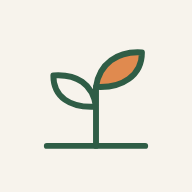
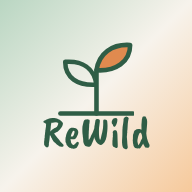
Add files via upload

diff --git a/index.html b/index.html
@@ -2,21 +2,23 @@
 <html lang="en"><head>
 <meta charset="utf-8">
 <meta name="viewport" content="width=device-width,initial-scale=1,viewport-fit=cover">
-<title>Rewild</title>
+<title>ReWild</title>
 <meta name="theme-color" content="#f7f3ec" media="(prefers-color-scheme: light)"><meta name="theme-color" content="#141a16" media="(prefers-color-scheme: dark)">
 <meta name="apple-mobile-web-app-capable" content="yes">
 <meta name="mobile-web-app-capable" content="yes">
-<meta name="apple-mobile-web-app-title" content="Rewild">
+<meta name="apple-mobile-web-app-title" content="ReWild">
 <link rel="manifest" href="manifest.webmanifest">
-<link rel="apple-touch-icon" href="apple-touch-icon.png">
+<link rel="apple-touch-icon" href="apple-touch-icon.png?v=4">
+<link rel="icon" type="image/png" href="icon-192.png?v=4">
 <link rel="icon" href="icon-192.png">
 <link rel="preconnect" href="https://fonts.googleapis.com">
 <link rel="stylesheet" href="https://fonts.googleapis.com/css2?family=Spectral:ital,wght@0,500;0,600;1,500&family=Public+Sans:wght@400;500;600&display=swap">
 <style>
[1 lines of base64/hex data omitted]
 /* Layout: a calm single-column field journal; tabs across the top, the log form first. */
 :root{
   --bg:#f7f3ec; --surface:#fffdf9; --sunk:#efe9df; --fg:#1d2a22; --muted:#66705f; --line:#e2dacb;
-  --accent:#2f5d46; --accent-fg:#ffffff; --peak:#c95a2e; --before:#8a94a6; --after:#2f5d46; --leaf:#e08a4f; --sun:#f3c58f;
+  --accent:#2f5d46; --accent-fg:#ffffff; --peak:#c95a2e; --before:#8a94a6; --after:#2f5d46; --leaf:#e08a4f; --sun:#f3c58f; --ring:#2f5d46;
   --c1:#2f5d46; --c2:#c95a2e; --c3:#5a6fa8; --c4:#b9782f; --c5:#7d4f86;
   --danger:#a33a2a; --chip:#ece4d6;
   --display:"Spectral", Georgia, "Times New Roman", serif;
@@ -25,12 +27,12 @@
 }
 @media (prefers-color-scheme: dark){:root:not([data-theme="light"]){
   --bg:#141a16; --surface:#1b231e; --sunk:#222b25; --fg:#eee9df; --muted:#a7ae9f; --line:#323d35;
-  --accent:#8fc2a5; --accent-fg:#10201a; --peak:#f0936a; --before:#a9b3c4; --after:#8fc2a5; --leaf:#e0864d; --sun:#f3c58f;
+  --accent:#8fc2a5; --accent-fg:#10201a; --peak:#f0936a; --before:#a9b3c4; --after:#8fc2a5; --leaf:#e0864d; --sun:#f3c58f; --ring:#8fc2a5;
   --c1:#8fc2a5; --c2:#f0936a; --c3:#9fb0e3; --c4:#e0b072; --c5:#c9a1d3;
   --danger:#f08c7a; --chip:#2a332c; color-scheme:dark }}
 :root[data-theme="dark"]{
   --bg:#141a16; --surface:#1b231e; --sunk:#222b25; --fg:#eee9df; --muted:#a7ae9f; --line:#323d35;
-  --accent:#8fc2a5; --accent-fg:#10201a; --peak:#f0936a; --before:#a9b3c4; --after:#8fc2a5; --leaf:#e0864d; --sun:#f3c58f;
+  --accent:#8fc2a5; --accent-fg:#10201a; --peak:#f0936a; --before:#a9b3c4; --after:#8fc2a5; --leaf:#e0864d; --sun:#f3c58f; --ring:#8fc2a5;
   --c1:#8fc2a5; --c2:#f0936a; --c3:#9fb0e3; --c4:#e0b072; --c5:#c9a1d3;
   --danger:#f08c7a; --chip:#2a332c; color-scheme:dark }
 *{box-sizing:border-box}
@@ -39,8 +41,8 @@ body{background:var(--bg);color:var(--fg);font-family:var(--body);font-size:15px
 .wrap{max-width:760px;margin:0 auto;display:flex;flex-direction:column;gap:20px}
 header.brand{display:flex;align-items:center;gap:14px}
 .logo{width:56px;height:56px;flex:none}
-header h1{letter-spacing:.01em;font-family:var(--display);font-weight:600;font-size:2rem;line-height:1.15;margin:0;text-wrap:balance}
-header p{margin:4px 0 0;color:var(--muted);font-style:italic;font-family:var(--display);font-size:1.05rem}
+header h1{letter-spacing:.01em;font-family:'ReWild Brush',var(--display);font-weight:400;font-size:2.5rem;line-height:1;color:var(--accent);margin:0;text-wrap:balance}
+header p{margin:4px 0 0;text-wrap:balance;color:var(--muted);font-style:italic;font-family:var(--display);font-size:1.05rem}
 nav{display:flex;gap:4px;flex-wrap:wrap;border-bottom:1px solid var(--line)}
 nav a{color:var(--muted);text-decoration:none;padding:8px 12px;border-bottom:2px solid transparent;font-weight:500}
 nav a[aria-current="page"]{color:var(--fg);border-bottom-color:var(--accent)}
@@ -99,14 +101,26 @@ button:disabled{opacity:.5;cursor:not-allowed}
 .toast{position:fixed;left:50%;transform:translateX(-50%);bottom:calc(16px + env(safe-area-inset-bottom,0px));background:var(--fg);color:var(--bg);padding:10px 16px;border-radius:8px;font-weight:500;z-index:20}
 .confirm{display:flex;gap:8px;align-items:center;flex-wrap:wrap;font-size:.9rem}
 @media (prefers-reduced-motion: no-preference){.panel{transition:border-color .2s}}
-@media (max-width:420px){.suds{grid-template-columns:1fr 1fr;gap:8px} header h1{font-size:1.7rem} header p{font-size:.92rem} .logo{width:46px;height:46px} .breathe-btn{padding:5px 11px;font-size:.85rem}}
+@media (max-width:420px){.suds{grid-template-columns:1fr 1fr;gap:8px} header h1{font-size:2.15rem} header p{font-size:.84rem} header.brand{gap:10px} .logo{width:46px;height:46px} .breathe-btn{padding:5px 11px;font-size:.85rem}}
 
 :root{padding-top:env(safe-area-inset-top,0px);padding-bottom:env(safe-area-inset-bottom,0px)}
 [hidden]{display:none!important}
-.breathe-btn{margin-left:auto;align-self:center;text-decoration:none;font-weight:600;font-size:.9rem;color:var(--accent);border:1.5px solid var(--accent);border-radius:999px;padding:6px 14px;white-space:nowrap}
-.breathe-btn:hover{background:var(--accent);color:var(--accent-fg)}
+.breathe-btn{margin-left:auto;align-self:center;position:relative;display:inline-flex;align-items:center;gap:7px;text-decoration:none;font-weight:700;font-size:.9rem;color:#fff;text-shadow:0 1px 1px rgba(0,0,0,.18);background:linear-gradient(90deg,#5f9a76,#d9773c);border-radius:999px;padding:7px 15px;white-space:nowrap;box-shadow:0 2px 8px rgba(217,119,60,.25)}
+.breathe-btn .bdot{width:10px;height:10px;border-radius:50%;background:#fff;flex:none}
+.breathe-btn::after{content:"";position:absolute;inset:-6px;border-radius:999px;border:3px solid var(--ring);box-shadow:0 0 10px color-mix(in srgb,var(--ring) 50%,transparent);opacity:0;pointer-events:none}
+.breathe-btn:focus-visible{outline:2px solid var(--fg);outline-offset:6px}
+@media (prefers-reduced-motion: no-preference){
+  .breathe-btn::after{animation:bw-glow 10s ease-in-out infinite}
+  .breathe-btn .bdot{animation:bw-dotp 10s ease-in-out infinite}
+}
+/* paced like slow breathing: about 4 seconds in, 6 seconds out */
+@keyframes bw-glow{0%{opacity:0;transform:scale(.94)}40%{opacity:1;transform:scale(1.06)}100%{opacity:0;transform:scale(.94)}}
+@keyframes bw-dotp{0%{transform:scale(.7)}40%{transform:scale(1.15)}100%{transform:scale(.7)}}
 .bw-stage{display:flex;flex-direction:column;align-items:center;gap:14px;padding:12px 0 4px}
-.bw-ring{width:min(240px,64vw);aspect-ratio:1;border-radius:50%;display:grid;place-items:center;position:relative}
+.bw-ring{width:min(240px,64vw);aspect-ratio:1;border-radius:50%;display:grid;place-items:center;position:relative;background:none;border:0;padding:0;cursor:pointer;-webkit-tap-highlight-color:transparent}
+.bw-ring:focus-visible{outline:2px solid var(--accent);outline-offset:4px}
+.bw-num.idle{font-family:var(--body);font-size:1.15rem;font-weight:600;letter-spacing:.06em;text-transform:uppercase}
+.bw-ring:not(.running) .bw-dot{transform:scale(.6)}
 .bw-ring::before{content:"";position:absolute;inset:0;border-radius:50%;border:1.5px dashed var(--line)}
 .bw-dot{grid-area:1/1;width:100%;aspect-ratio:1;border-radius:50%;background-color:var(--bw-c,var(--sun));background-image:radial-gradient(circle at 50% 38%,rgba(255,255,255,.38),rgba(255,255,255,0) 62%);transform:scale(.42);transition:transform 1s ease-in-out,background-color .6s ease}
 .bw-num{grid-area:1/1;z-index:1;font-family:var(--display);font-size:3.4rem;font-weight:600;color:#1d2a22;font-variant-numeric:tabular-nums;line-height:1}
@@ -191,13 +205,13 @@ if("serviceWorker" in navigator)addEventListener("load",()=>navigator.serviceWor
       <path d="M24 23c1-7 6.5-11 14-10.5C38 19.5 32 23.5 24 23z" fill="var(--leaf)" stroke="var(--accent)" stroke-width="1.8" stroke-linejoin="round"/>
     </svg>
     <div>
-      <h1>Rewild</h1>
+      <h1>ReWild</h1>
       <p>Reclaiming a life beyond fear.</p>
     </div>
-    <a href="#breathe" class="breathe-btn" aria-label="Breathe">Breathe</a>
+    <a href="#breathe" class="breathe-btn" aria-label="Breathe"><span class="bdot" aria-hidden="true"></span>Breathe</a>
   </header>
   <nav id="nav">
-    <a href="#log">Log</a><a href="#week">Week</a><a href="#trends">Trends</a><a href="#pyramid">Pyramid</a><a href="#export">Export</a><a href="#breathe">Breathe</a><a href="#safety">Safety</a><a href="#settings">Settings</a>
+    <a href="#safety">Safety</a><a href="#log">Log</a><a href="#breathe">Breathe</a><a href="#week">Week</a><a href="#pyramid">Pyramid</a><a href="#trends">Trends</a><a href="#export">Export</a><a href="#settings">Settings</a>
   </nav>
   <p class="meta" id="sync-chip" style="margin:-8px 0 0"></p>
   <div id="banner" class="banner" hidden></div>
@@ -424,11 +438,10 @@ if("serviceWorker" in navigator)addEventListener("load",()=>navigator.serviceWor
         <label style="flex-direction:row;align-items:center;gap:8px;align-self:end"><input type="checkbox" id="bw-vib" style="width:auto">Buzz on each change</label>
       </div>
       <div class="bw-stage">
-        <div class="bw-ring"><div class="bw-dot" id="bw-dot"></div><span class="bw-num" id="bw-num"></span></div>
+        <button type="button" class="bw-ring" id="bw-start" aria-label="Start breathing"><span class="bw-dot" id="bw-dot"></span><span class="bw-num idle" id="bw-num">Start</span></button>
         <div class="bw-key"><span style="--sw:var(--bw-in)">Breathe in</span><span style="--sw:var(--bw-hold)">Hold</span><span style="--sw:var(--bw-out)">Breathe out</span></div>
-        <p class="bw-cue" id="bw-cue">Ready when you are</p>
+        <p class="bw-cue" id="bw-cue">Tap the circle to begin</p>
         <p class="bw-count" id="bw-count"></p>
-        <div class="actions"><button type="button" class="primary" id="bw-start">Start</button></div>
         <p class="bw-after" id="bw-after" hidden>Notice your feet on the ground. Name three things you can see and one thing you can hear. Then decide your next step.</p>
       </div>
       <details class="sg" style="margin-top:0"><summary>If this isn't anxiety</summary><p id="bw-stop"></p></details>
@@ -490,7 +503,7 @@ if("serviceWorker" in navigator)addEventListener("load",()=>navigator.serviceWor
     </section>
     <section class="panel" id="sync-panel">
       <h2>Google Sheet sync</h2>
-      <p class="hint">Connect your own Google Sheet so every device stays in sync and your entries are stored long term in your Google Drive. Entries still save on this device first, so Rewild works without signal.</p>
+      <p class="hint">Connect your own Google Sheet so every device stays in sync and your entries are stored long term in your Google Drive. Entries still save on this device first, so ReWild works without signal.</p>
       <label>Sheet sync link<input type="url" id="g-url" placeholder="https://script.google.com/macros/s/…/exec" autocomplete="off"></label>
       <label>Passcode<input type="text" id="g-pass" autocomplete="off" spellcheck="false"></label>
       <div class="actions"><button type="button" class="primary" id="g-save">Connect and sync</button><button type="button" id="g-now">Sync now</button><button type="button" class="link" id="g-gen">Make a passcode</button></div>
@@ -498,7 +511,7 @@ if("serviceWorker" in navigator)addEventListener("load",()=>navigator.serviceWor
     </section>
     <section class="panel">
       <h2>Backup and moving devices</h2>
-      <p class="hint">Save a backup file regularly. To use Rewild on another device, save a backup here and restore it there; restoring merges, keeping the newest version of each entry.</p>
+      <p class="hint">Save a backup file regularly. To use ReWild on another device, save a backup here and restore it there; restoring merges, keeping the newest version of each entry.</p>
       <div class="actions"><button class="primary" id="x-phone">Save backup file</button></div>
       <label>Restore from a backup file<input type="file" id="x-import" accept=".json,application/json"></label>
       <p class="meta" id="x-sync-msg"></p>
@@ -639,7 +652,7 @@ function renderWeek(){
   $("w-saved").textContent=w.updatedAt?"Saved "+new Date(w.updatedAt).toLocaleString(undefined,{month:"short",day:"numeric",hour:"numeric",minute:"2-digit"}):"";
 }
 function weekSummary(){const ws=weekStart,w=S.weeks[ws]||{};const ex=S.exposures.filter(x=>inWeek(x.date,ws)).sort((a,b)=>a.date.localeCompare(b.date));const av=S.avoidance.filter(x=>inWeek(x.date,ws));
-  const L=[];L.push("Rewild week of "+fmt(ws,{month:"long",day:"numeric",year:"numeric"})+(w.phase?" ("+w.phase+")":""));L.push("");
+  const L=[];L.push("ReWild week of "+fmt(ws,{month:"long",day:"numeric",year:"numeric"})+(w.phase?" ("+w.phase+")":""));L.push("");
   L.push("Exposures: "+ex.length+" (alone: "+ex.filter(x=>x.alone==="Yes").length+"). Considered and not done: "+av.length+".");
   L.push("Average SUDS: predicted "+(avg(ex.map(x=>x.sudsPredicted))??"–")+", before "+(avg(ex.map(x=>x.sudsBefore))??"–")+", peak "+(avg(ex.map(x=>x.sudsPeak))??"–")+", after "+(avg(ex.map(x=>x.sudsAfter))??"–")+".");
   const ws2=ex.filter(x=>x.warningSigns==="Yes");if(ws2.length)L.push("Warning signs on "+ws2.length+" entr"+(ws2.length===1?"y":"ies")+": "+ws2.map(x=>fmt(x.date)+(x.warningNote?" — "+x.warningNote:"")).join("; "));
@@ -751,8 +764,8 @@ $("x-xlsx").onclick=()=>{if(!window.XLSX){$("x-msg").textContent="Excel export d
 /* ---------- phone sync ---------- */
 const strip=o=>{const c=Object.assign({},o);delete c.id;return c};
 $("x-import").addEventListener("change",async e=>{const f=e.target.files[0];const msg=$("x-sync-msg");if(!f)return;
-    let d;try{d=JSON.parse(await f.text())}catch(err){msg.textContent="That file isn't a Rewild backup.";return}
-  if(!d||d.app!=="rewild"||!Array.isArray(d.exposures)){msg.textContent="That file isn't a Rewild backup.";return}
+    let d;try{d=JSON.parse(await f.text())}catch(err){msg.textContent="That file isn't a ReWild backup.";return}
+  if(!d||d.app!=="rewild"||!Array.isArray(d.exposures)){msg.textContent="That file isn't a ReWild backup.";return}
   msg.textContent="Importing…";let added=0,updated=0,removed=0,failed=0;
   for(const kind of ["pyramid","exposures","avoidance","weeks","settings"]){for(const it of (d[kind]||[])){if(!it||!it.id)continue;const loc=kind==="weeks"?Object.values(S.weeks).find(x=>x.id===it.id):kind==="settings"?S.settings[it.id]:S[kind].find(x=>x.id===it.id);
     if(!loc||(it.updatedAt||0)>(loc.updatedAt||0)){try{await db.collection(kind).doc(it.id).set(strip(it));loc?updated++:added++}catch(err){failed++}}}}
@@ -772,21 +785,21 @@ function bwDesc(){$("bw-desc").textContent=BW[bwPat()].d}
 document.querySelectorAll('input[name="bwp"]').forEach(r=>r.addEventListener("change",()=>{bwDesc();if(bwRun){bwStop();bwStart()}}));
 async function bwStart(){const pat=BW[bwPat()],len=Number($("bw-len").value)*1000,t0=Date.now();let i=0,lock=null;
   try{lock=navigator.wakeLock&&await navigator.wakeLock.request("screen")}catch(e){}
-  $("bw-after").hidden=true;$("bw-start").textContent="Stop";
+  $("bw-after").hidden=true;const btn=$("bw-start");btn.classList.add("running");btn.setAttribute("aria-label","Stop breathing");$("bw-num").classList.remove("idle");
   const run=bwRun={lock,timers:[]};
   const step=()=>{if(bwRun!==run)return;
     if(len&&Date.now()-t0>=len&&i%pat.ph.length===0){bwStop(true);return}
     const [cue,sec,sc]=pat.ph[i%pat.ph.length];i++;
     const kind=cue.startsWith("Hold")?"hold":cue.includes("out")?"out":"in";
     const dot=$("bw-dot");dot.style.transition="transform "+sec+"s ease-in-out, background-color .6s ease";dot.style.transform="scale("+sc+")";dot.style.setProperty("--bw-c","var(--bw-"+kind+")");
-    $("bw-cue").textContent=cue;let n=1;$("bw-num").textContent=n;$("bw-count").textContent=sec+" count"+(sec===1?"":"s");
+    $("bw-cue").textContent=cue;let n=1;$("bw-num").textContent=n;$("bw-count").textContent=sec+" count"+(sec===1?"":"s")+" · tap the circle to stop";
     if($("bw-vib").checked&&navigator.vibrate)navigator.vibrate(cue.startsWith("Hold")?[30,60,30]:60);
     const iv=setInterval(()=>{n++;if(n<=sec)$("bw-num").textContent=n},1000);run.timers.push(iv);
     run.timers.push(setTimeout(()=>{clearInterval(iv);step()},sec*1000))};
   step()}
 function bwStop(done){if(!bwRun)return;bwRun.timers.forEach(t=>{clearTimeout(t);clearInterval(t)});try{bwRun.lock&&bwRun.lock.release()}catch(e){}bwRun=null;
-  const dot=$("bw-dot");dot.style.transition="transform 1.2s ease-in-out, background-color .6s ease";dot.style.transform="scale(.42)";dot.style.removeProperty("--bw-c");$("bw-num").textContent="";
-  $("bw-cue").textContent=done?"Done":"Ready when you are";$("bw-count").textContent="";$("bw-start").textContent=done?"Again":"Start";$("bw-after").hidden=!done}
+  const dot=$("bw-dot");dot.style.transition="transform 1.2s ease-in-out, background-color .6s ease";dot.style.transform="";dot.style.removeProperty("--bw-c");const btn=$("bw-start");btn.classList.remove("running");btn.setAttribute("aria-label","Start breathing");const nm=$("bw-num");nm.classList.add("idle");nm.textContent=done?"Again":"Start";
+  $("bw-cue").textContent=done?"Done":"Tap the circle to begin";$("bw-count").textContent="";$("bw-after").hidden=!done}
 $("bw-start").onclick=()=>bwRun?bwStop():bwStart();
 window.addEventListener("hashchange",()=>{if(location.hash!=="#breathe")bwStop()});
 document.addEventListener("visibilitychange",async()=>{if(bwRun&&document.visibilityState==="visible"&&!bwRun.lock){try{bwRun.lock=await navigator.wakeLock.request("screen")}catch(e){}}});

diff --git a/sw.js b/sw.js
@@ -1,4 +1,4 @@
-const C="rewild-v11";
+const C="rewild-v15";
 const A=["./","index.html","manifest.webmanifest","xlsx.full.min.js","icon-192.png","icon-512.png","apple-touch-icon.png"];
 self.addEventListener("install",e=>{e.waitUntil(caches.open(C).then(c=>c.addAll(A)).then(()=>self.skipWaiting()))});
 self.addEventListener("activate",e=>{e.waitUntil(caches.keys().then(k=>Promise.all(k.filter(x=>x!==C).map(x=>caches.delete(x)))).then(()=>self.clients.claim()))});
